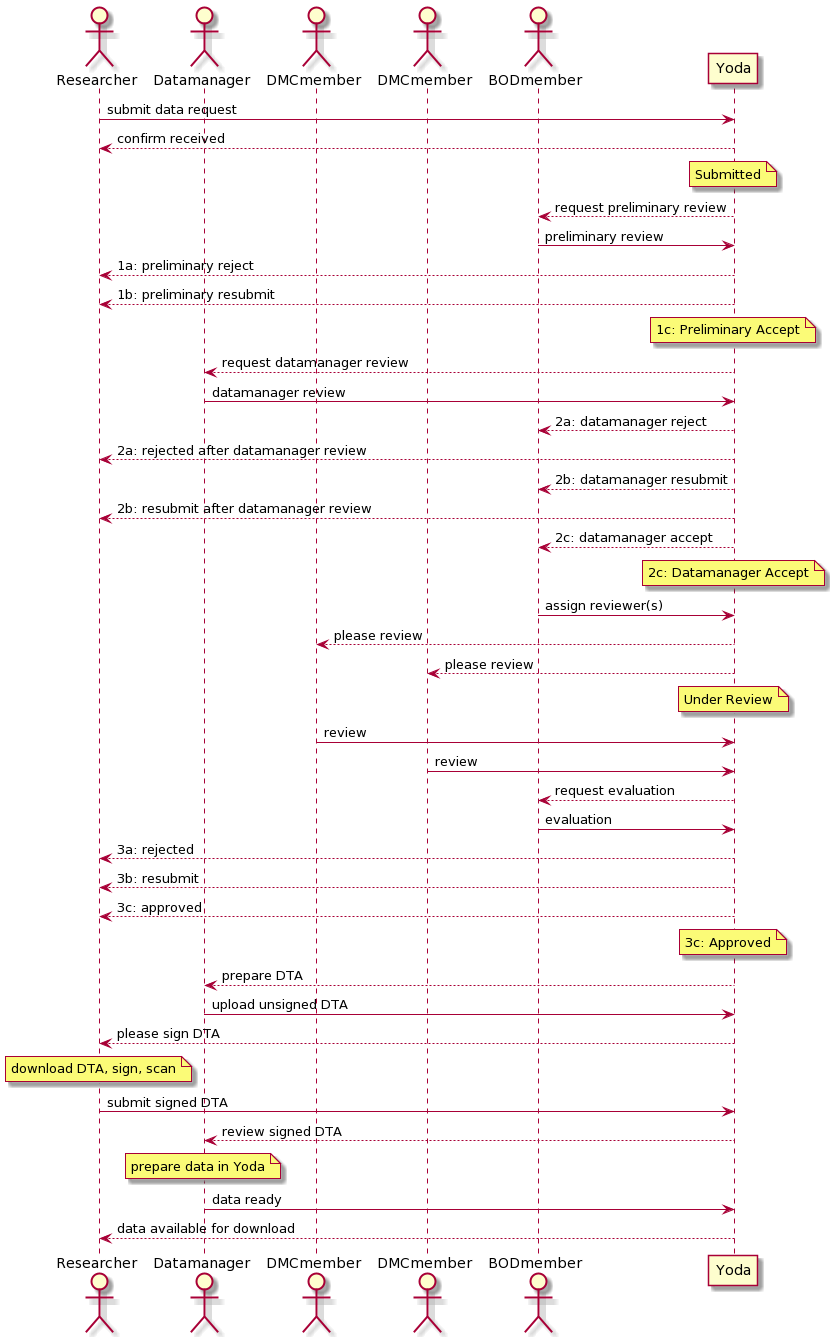
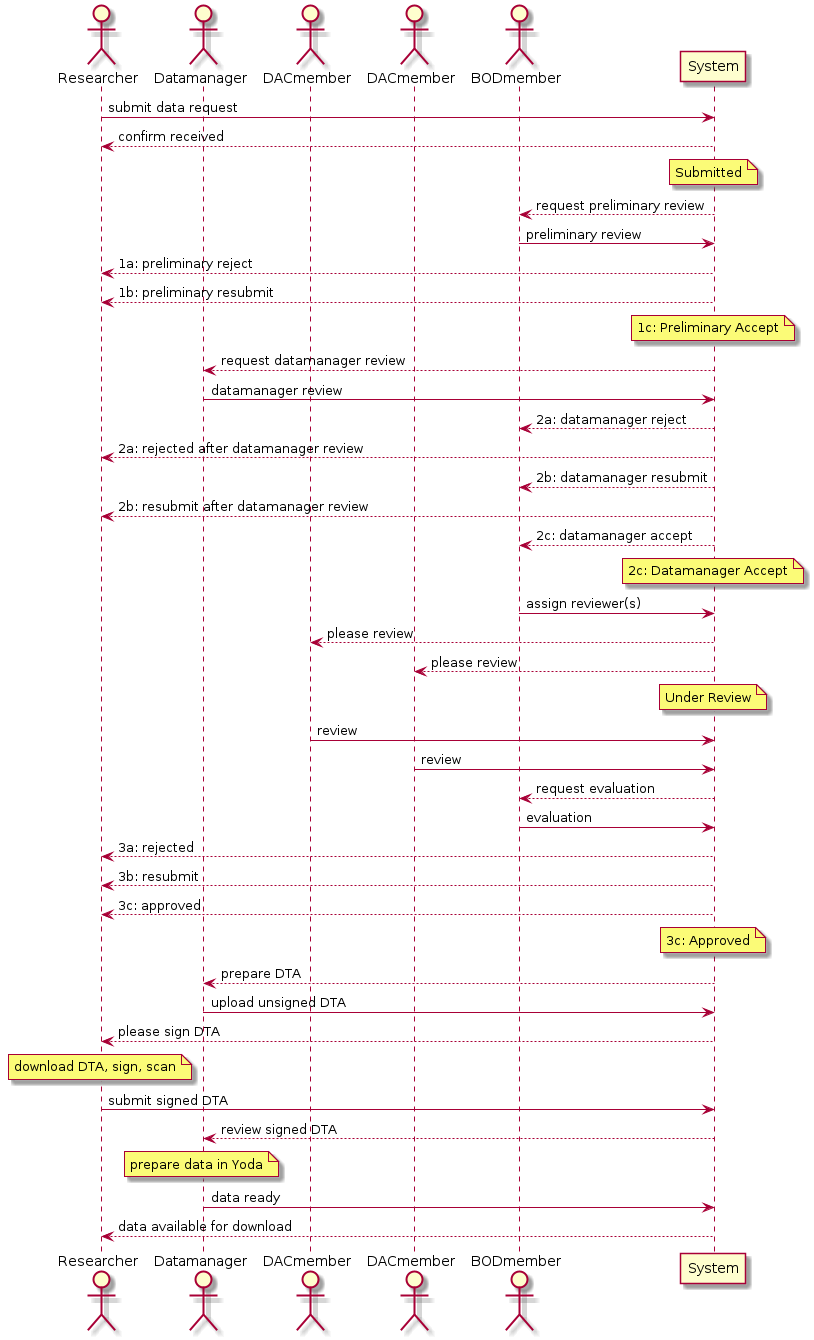
YDA-4429: Rename DMC to DAC

diff --git a/docs/design/overview/data-requests.md b/docs/design/overview/data-requests.md
@@ -37,13 +37,13 @@ Likewise, a data manager assigned as a custodian of (certain) data stored in
 Yoda must be also able to submit a review of a data request.
 
 After these preliminary reviews, a project manager must be able to assign a data
-request for review to one or more members of a Data Management Committee (DMC)
+request for review to one or more members of a Data Access Committee (DAC)
 
-The DMC member(s) must be able to review research proposals assigned to him.
+The DAC member(s) must be able to review research proposals assigned to him.
 
 ### Final evaluation of research proposals
 A project manager must be able to give a final evaluation of a research proposal
-based on the reviews by the data manager and the DMC member(s), thereby
+based on the reviews by the data manager and the DAC member(s), thereby
 approving or rejecting the data request.
 
 ### Creation of data transfer agreements (DTAs)
@@ -86,20 +86,20 @@ permissions on the public collection mentioned above (these include read and
 write permissions). Because these permissions are recursive, they also apply to
 the subcollections made by researchers.
 
-Upon assignment of a research proposal for evaluation to a DMC member, the DMC
+Upon assignment of a research proposal for evaluation to a DAC member, the DAC
 member is granted read and write permissions on the subcollection in which the
 research proposal is stored.
 
-DMC membership is determined by membership of a particular group (e.g.
-"brainmorphlab-dmc"), acting as a pool from which the data manager may pick an
+DAC membership is determined by membership of a particular group (e.g.
+"brainmorphlab-dac"), acting as a pool from which the data manager may pick an
 appropriate member.
 
-A DMC member can evaluate a research proposal through a web form. The evaluation
+A DAC member can evaluate a research proposal through a web form. The evaluation
 is saved as a JSON-formatted file in the subcollection that also holds the
 research proposal itself.
 
 Because multiple research groups may use a Yoda instance, multiple data manager
-and DMC groups may be created so that data requests meant for data of a
+and DAC groups may be created so that data requests meant for data of a
 particular research group can be handled by data managers associated with that
 research group.
 
